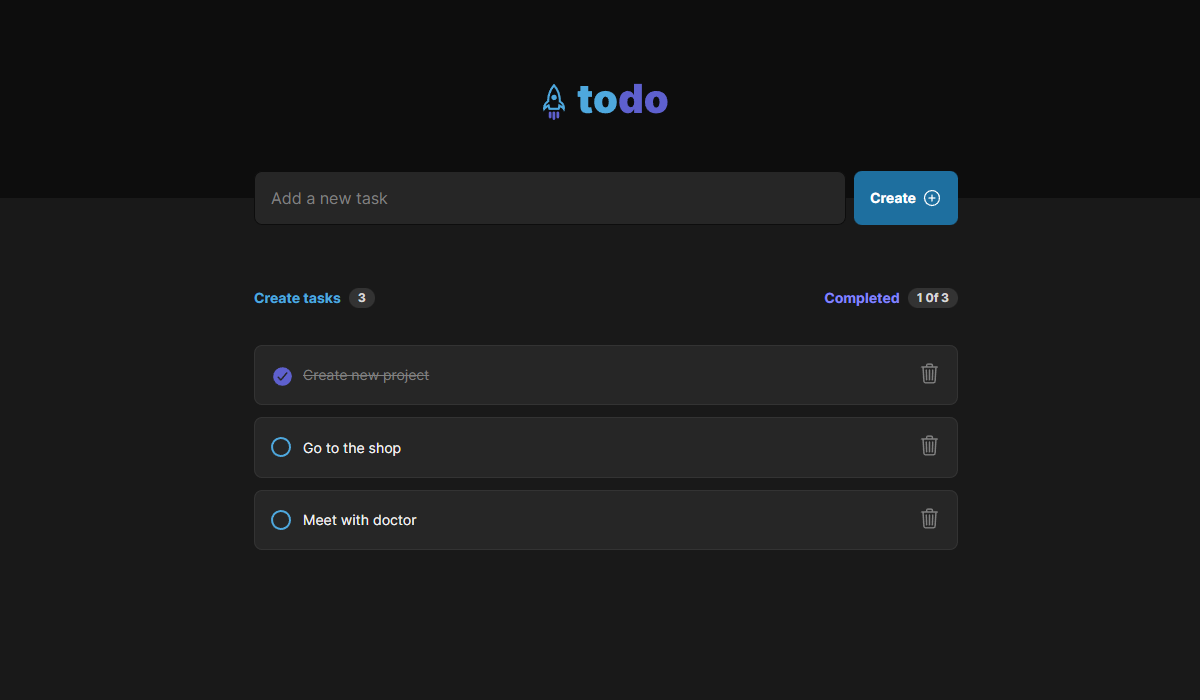
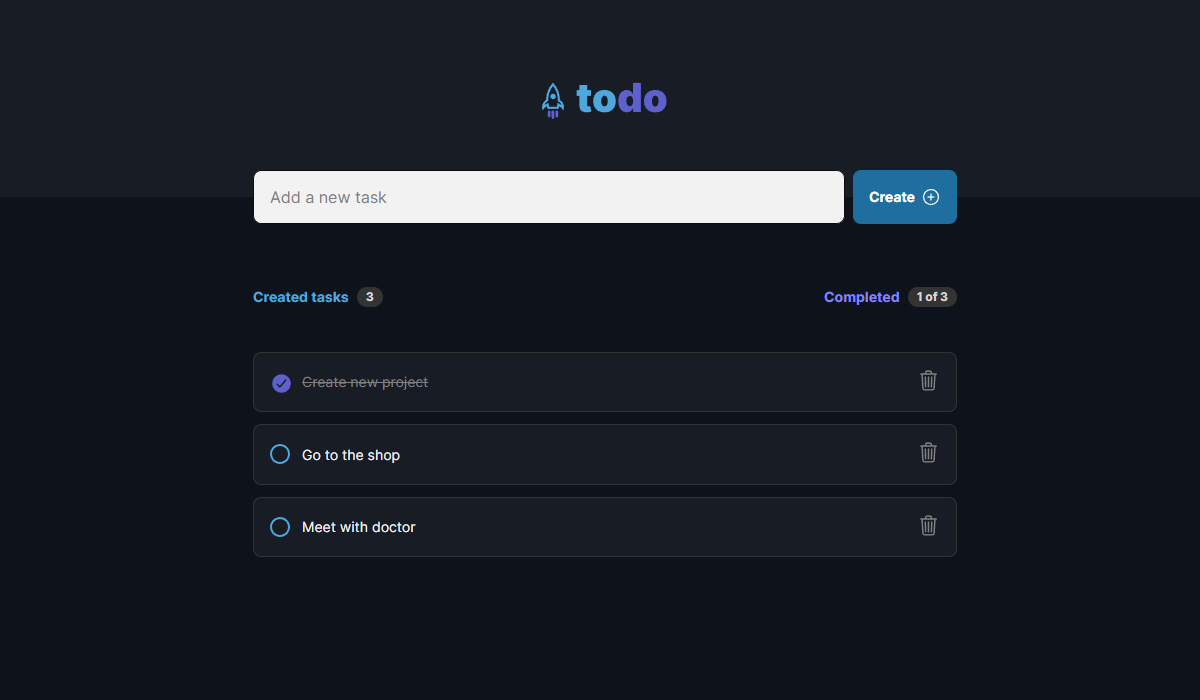
minor changes

diff --git a/src/components/Tasks/Tasks.jsx b/src/components/Tasks/Tasks.jsx
@@ -10,13 +10,13 @@ export const Tasks = ({ tasks, onComplete, onDelete }) => {
     <section className={styles.container}>
       <div className={styles.tasks}>
         <div className={styles.wrapper}>
-          <p>Create tasks</p>
+          <p>Created tasks</p>
           <span>{tasksQuantity}</span>
         </div>
         <div className={styles.wrapper}>
           <p className={styles.purple_text}>Completed</p>
           <span>
-            {completedTasks} 0f {tasksQuantity}
+            {completedTasks} of {tasksQuantity}
           </span>
         </div>
       </div>

diff --git a/src/components/Header/Header.module.scss b/src/components/Header/Header.module.scss
@@ -4,7 +4,7 @@
   justify-content: center;
   position: relative;
   height: 200px;
-  background-color: #0d0d0d;
+  background-color: #181c25;
   margin-bottom: 90px;
 }
 
@@ -21,7 +21,7 @@
     height: 100%;
     flex: 1;
     color: #fff;
-    background-color: #262626;
+    background-color: #f2f2f2;
     border: 1px solid #0d0d0d;
     border-radius: 8px;
     padding: 0 16px;

diff --git a/src/styles/index.scss b/src/styles/index.scss
@@ -10,7 +10,7 @@
 body {
   min-height: 100vh;
   color: #f2f2f2;
-  background-color: #191919;
+  background-color: #0e121b;
   font-family: "Inter", sans-serif;
   font-weight: 400;
 }

diff --git a/src/components/Task/Task.module.scss b/src/components/Task/Task.module.scss
@@ -1,6 +1,6 @@
 .task {
   width: 100%;
-  background-color: #262626;
+  background-color: #181c25;
   border: 1px solid #333333;
   padding: 16px;
   border-radius: 8px;
